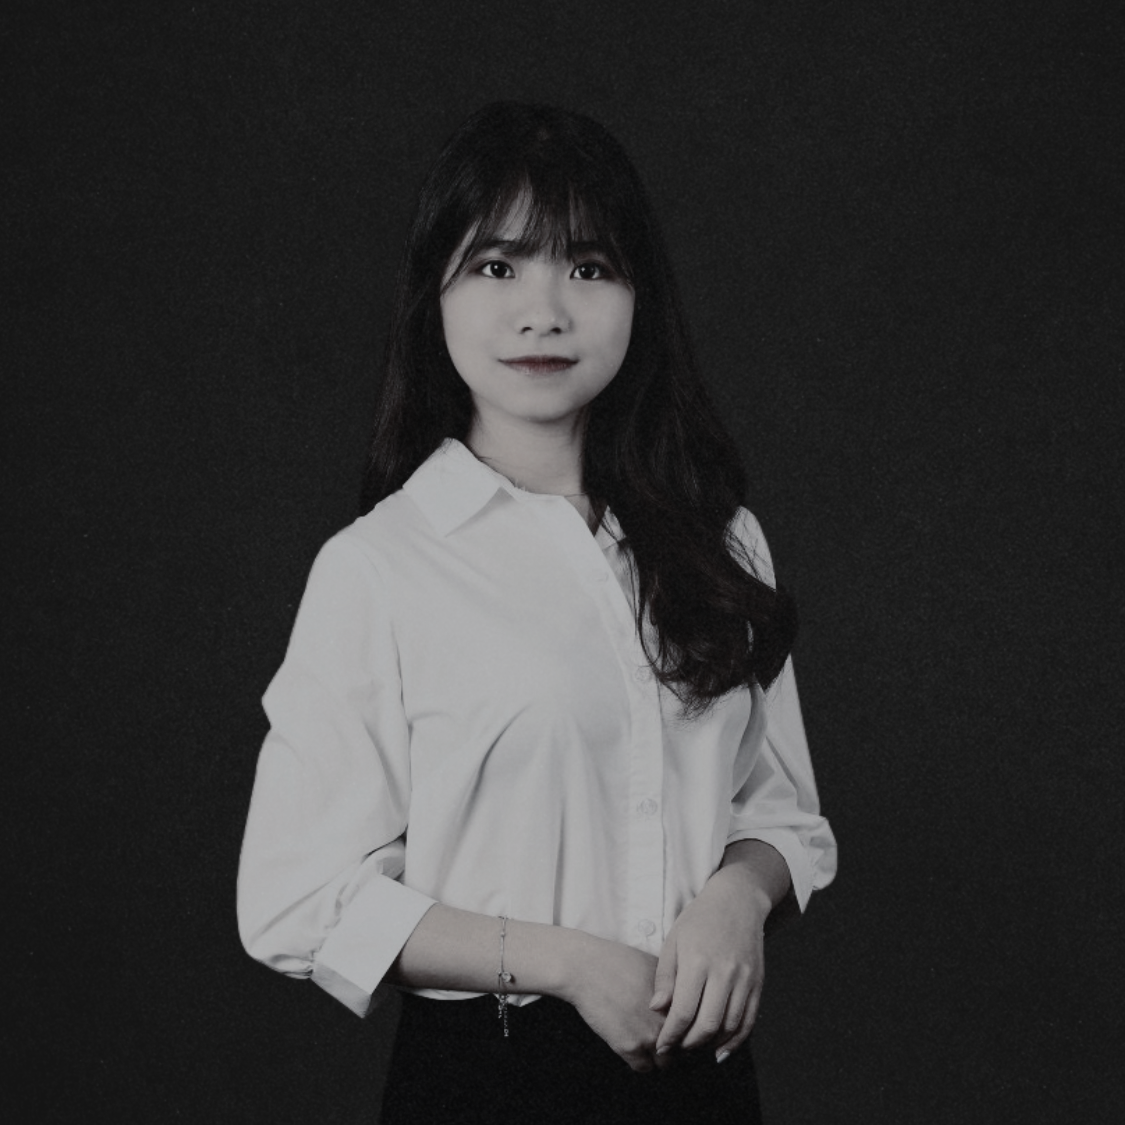
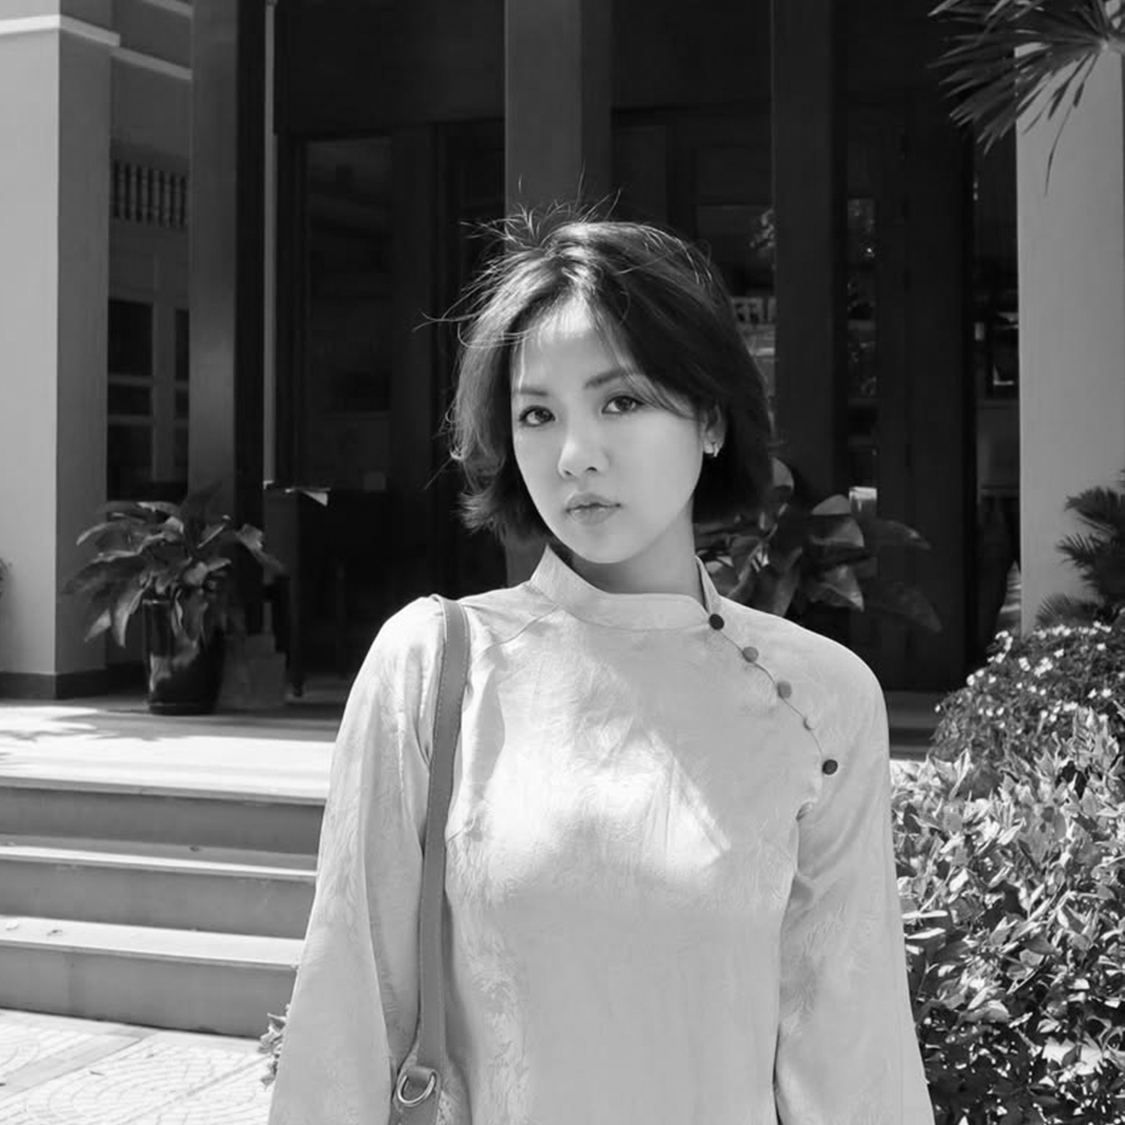
update 1109

diff --git a/src/pages/contact/contact-light.jsx b/src/pages/contact/contact-light.jsx
@@ -6,10 +6,10 @@ import LightTheme from "../../layouts/Light";
 
 const Contact = () => {
   const fixedHeader = React.useRef(null);
-    const MainContent = React.useRef(null);
-    const navbarRef = React.useRef(null);
+  const MainContent = React.useRef(null);
+  const navbarRef = React.useRef(null);
   React.useEffect(() => {
-    document.querySelector('body').classList.add('menubarblack');
+    document.querySelector("body").classList.add("menubarblack");
     setInterval(() => {
       if (fixedHeader.current) {
         var slidHeight = fixedHeader.current.offsetHeight;
